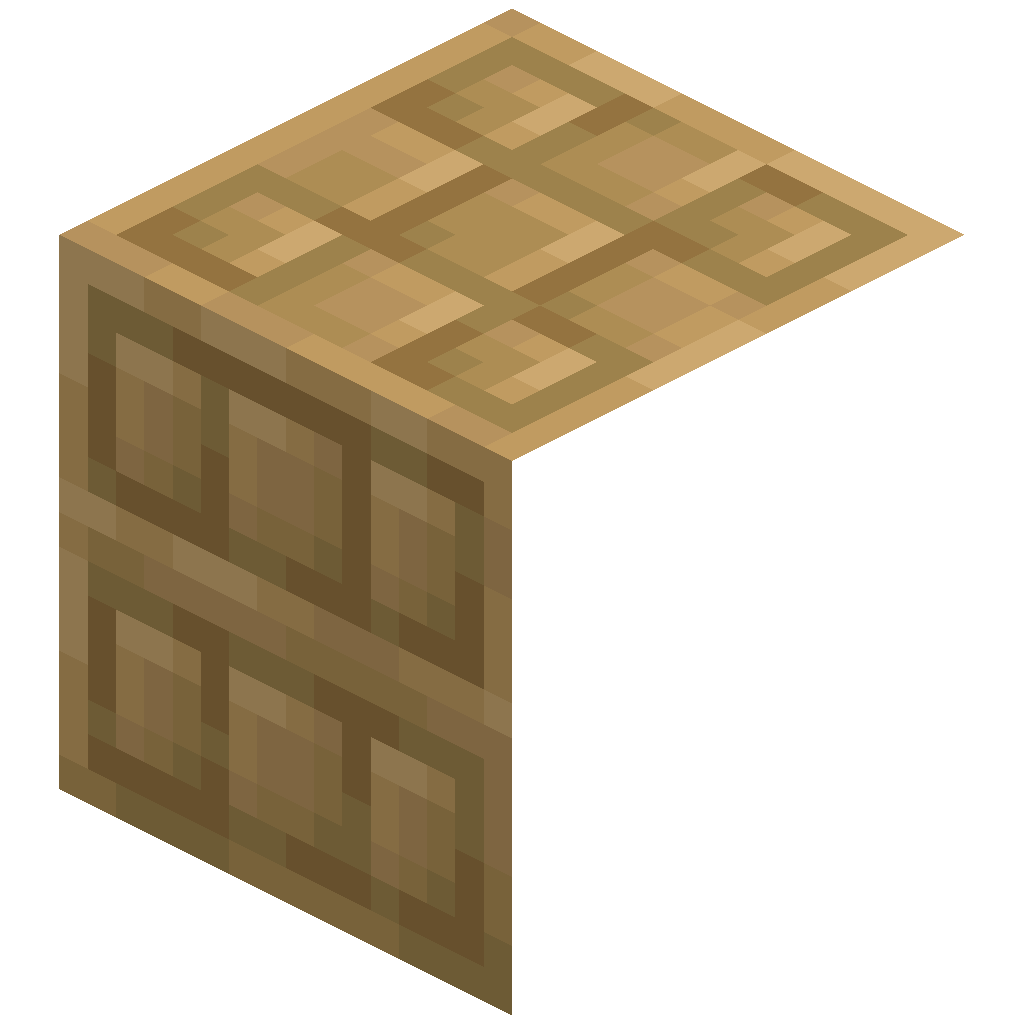
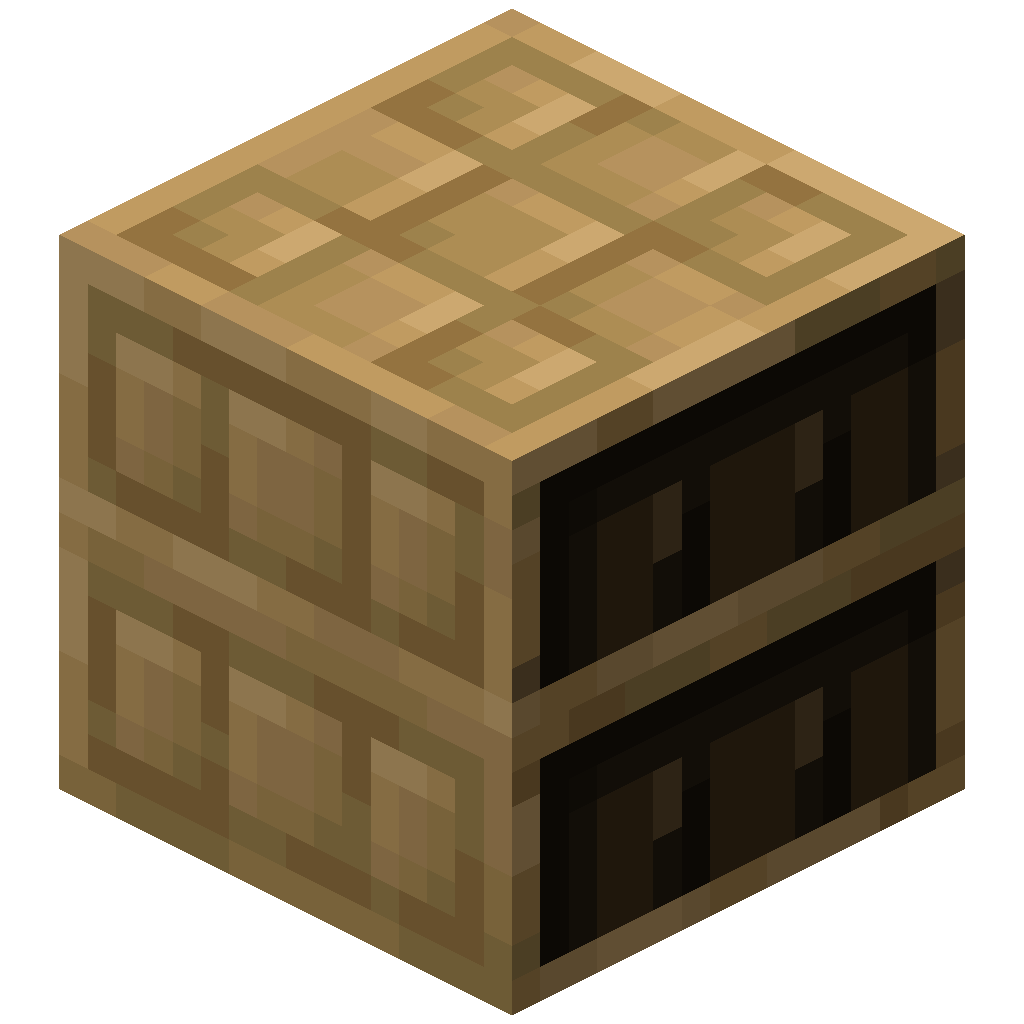
fix chiseled_bookshelf

Changed region(s): [[0.5, 0.2188, 0.9688, 1.0]]

diff --git a/blockmodel-utils.js b/blockmodel-utils.js
@@ -130,6 +130,14 @@ const UNIQUE_DEFAULT_BLOCKSTATES = {
   "*_bed": {
     part: "foot",
     facing: "south"
+  },
+  chiseled_bookshelf: {
+    slot_0_occupied: false,
+    slot_1_occupied: false,
+    slot_2_occupied: false,
+    slot_3_occupied: false,
+    slot_4_occupied: false,
+    slot_5_occupied: false
   }
 }
 
